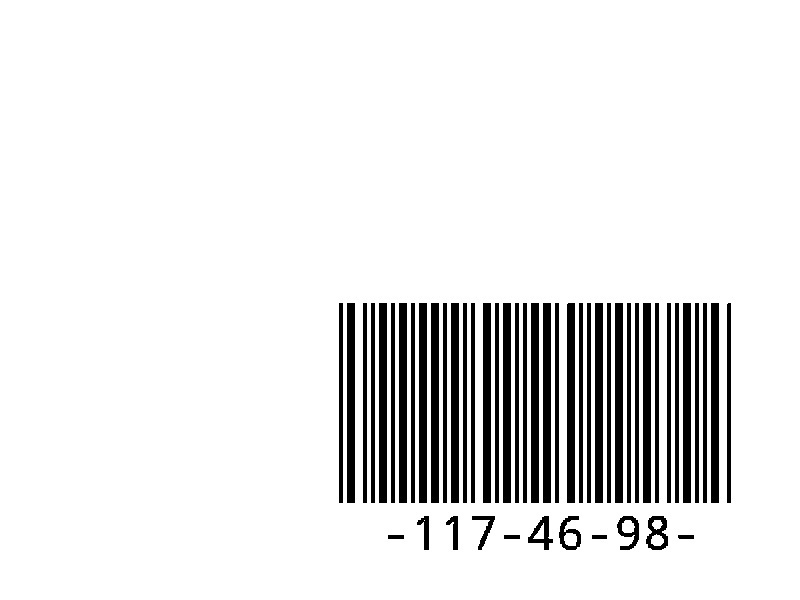
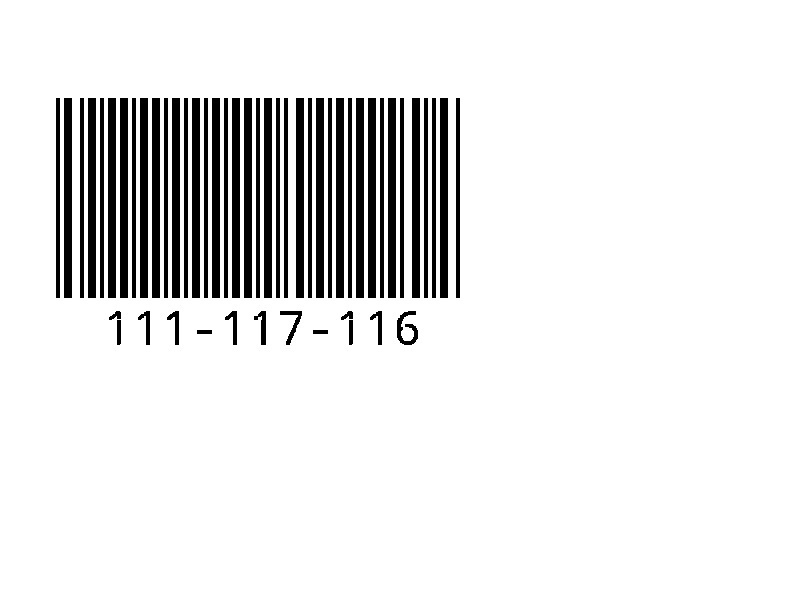
added my part, yaaaaah, good night

Changed region(s): [[0.0625, 0.15, 0.9375, 0.93]]

diff --git a/rotation.py b/rotation.py
@@ -1,5 +1,6 @@
 import cv2
 import numpy as np
+from salt_pepper import remove_salt_pepper
 
 def preprocess_image(image):
     """Convert the image to grayscale."""
@@ -70,9 +71,10 @@ def rotate_image(image, angle):
     rotated = cv2.warpAffine(image, M, (bound_w, bound_h), flags=cv2.INTER_LINEAR, borderValue=(255,255,255))
     return rotated
 
-def rotate_barcode(image, output_path=None):
+def rotate_barcode(image_path, output_path=None):
     """Preprocess the barcode image and optionally save the corrected image."""
-
+    # Load the image
+    image = cv2.imread(image_path)
     # Convert to grayscale
     thresh = preprocess_image(image)
     print("Preprocessed image for rotation.")
@@ -83,7 +85,9 @@ def rotate_barcode(image, output_path=None):
 
     # Rotate image to make barcode horizontal
     if needs_rotation(angle):
-        rotated = rotate_image(image, angle)
+        remove_salt_pepper(image, "peppered.jpg")
+        new_img = cv2.imread("peppered.jpg")
+        rotated = rotate_image(new_img, angle)
         print("Image rotated to correct orientation.")
     else:
         rotated = image
